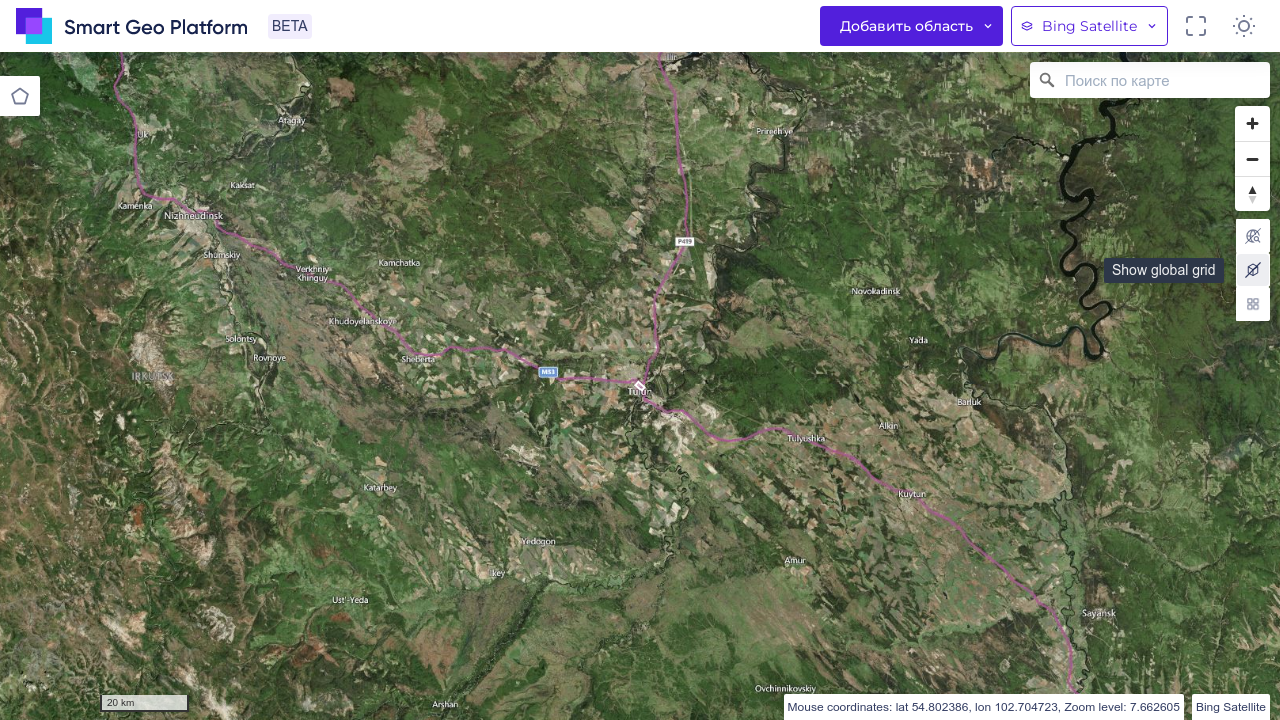
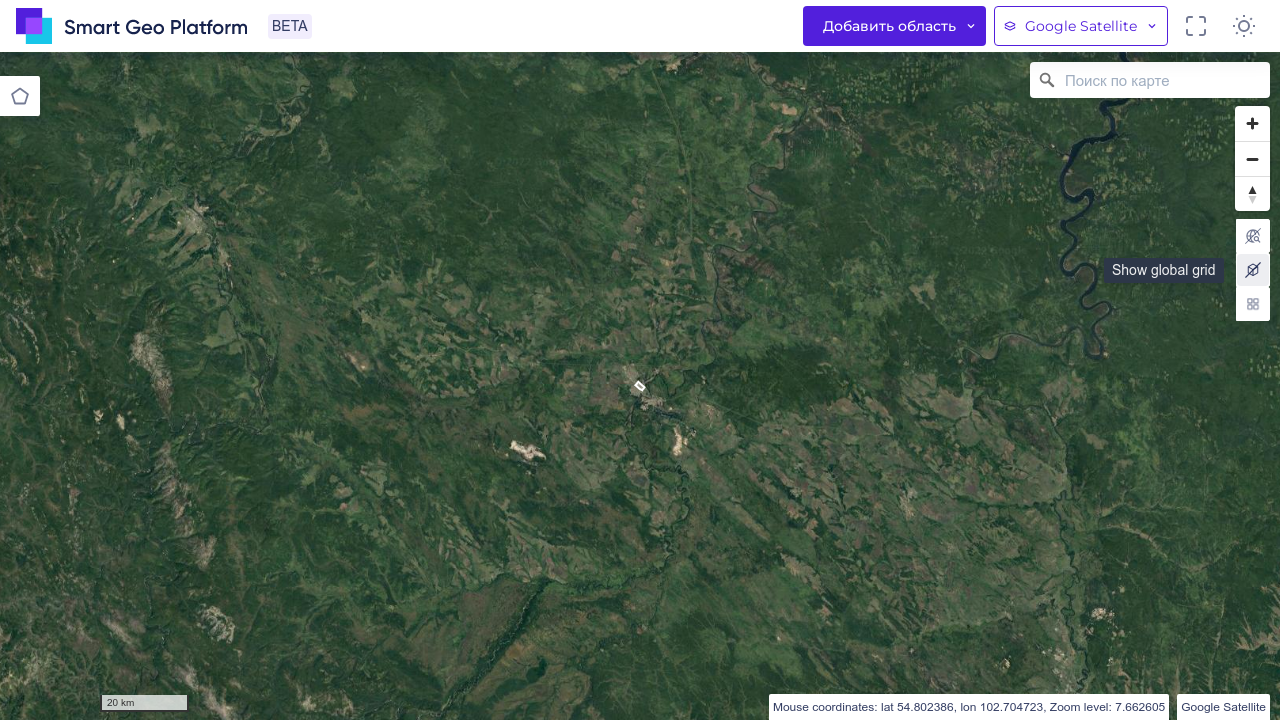
Refactoring UI tests with new default settings

diff --git a/src/test/java/frontendTests/MainPageHeaderTest.java b/src/test/java/frontendTests/MainPageHeaderTest.java
@@ -9,11 +9,11 @@ import pages.SgpMain;
 import util.JunitExtension;
 import util.Util;
 
-import java.io.IOException;
 import java.util.Arrays;
 import java.util.List;
 
 import static com.microsoft.playwright.assertions.PlaywrightAssertions.assertThat;
+import static org.junit.jupiter.api.Assertions.assertAll;
 import static org.junit.jupiter.api.Assertions.assertEquals;
 import static util.Constants.*;
 import static util.JunitExtension.BROWSER;
@@ -37,13 +37,19 @@ public class MainPageHeaderTest {
     }
 
     @Test
-    void checkMainPageViewAndUrl() throws IOException {
-        assertEquals(SGP_URL_DEV, mainPage.getPage().url(), "Неверный URL");
-        Util.checkScreenshot(
-                "actMainPageView",
-                "expMainPageView",
-                "checkMainPageView",
-                EXPSCREENSHOTS_TEST_CLASS_DIR);
+    void checkLogoClick() {
+        mainPage.getPage().navigate(NEW_CALCULATION_URL);
+        mainPage.header.waitForHeader();
+        assertThat(mainPage.header.getNewShape()).isHidden();
+        mainPage.header.getTextLogo().click();
+        mainPage.header.waitForHeader();
+
+        assertAll(
+                () -> assertEquals(SGP_URL_DEV, mainPage.getPage().url(), "Неверный URL"),
+                () -> assertThat(mainPage.header.getNewShape()).isEnabled(),
+                () -> assertThat(mainPage.shapesPanel.getShapesPanelVisible()).isVisible(),
+                () -> assertEquals(BASE_MAP_TYPE, mainPage.header.getChooseMapType().textContent(), "Тип карты отличается от дефолтного")
+        );
     }
 
 /*  FIREFOX: When running a test with authorization through an account
@@ -67,7 +73,7 @@ public class MainPageHeaderTest {
    */
 
     @Test
-    void checkFullscreenMode() throws IOException {
+    void checkFullscreenMode() {
         if (BROWSER.equals("FIREFOX")) {
             mainPage.getPage().setViewportSize(1500, 800);
         }
@@ -89,7 +95,7 @@ public class MainPageHeaderTest {
     }
 
     @Test
-    void checkColorMode() throws IOException {
+    void checkColorMode() {
         assertThat(mainPage.header.getColorModeBtn()).isEnabled();
         mainPage.header.getColorModeBtn().click();
         Util.checkScreenshot(
@@ -123,17 +129,6 @@ public class MainPageHeaderTest {
     }
 
     @Test
-    void checkLogoClick() {
-        mainPage.getPage().navigate(NEW_CALCULATION_URL);
-        mainPage.header.waitForHeader();
-        assertThat(mainPage.header.getNewShape()).isHidden();
-        mainPage.header.getTextLogo().click();
-        assertEquals(SGP_URL_DEV, mainPage.getPage().url(), "Неверный URL");
-        mainPage.header.waitForHeader();
-        assertThat(mainPage.header.getNewShape()).isEnabled();
-    }
-
-    @Test
     void checkChooseMapTypeItemsOrder() {
         mainPage.header.checkChooseMapTypeMenu();
         mainPage.header.checkDropdownItemsOrder(MAP_TYPES_LIST, mainPage.header.getMapTypeDropdownMenuItem());
@@ -146,7 +141,7 @@ public class MainPageHeaderTest {
             "Mapbox Light,actMapboxLight,expMapboxLight,checkMapboxLightOn,longWaiting",
             "Google Satellite,actGoogleSatellite,expGoogleSatellite,checkGoogleSatelliteOn,No",
             "Mapbox Satellite,actMapboxSatellite,expMapboxSatellite,checkMapboxSatelliteOn,longWaiting"})
-    public void checkChooseMapTypeItemClick(String mapTypeItem) throws IOException {
+    public void checkChooseMapTypeItemClick(String mapTypeItem) {
         List<String> mapTypeParams = Arrays.asList(mapTypeItem.split(","));
         mainPage.header.checkChooseMapTypeMenu();
         if (mapTypeParams.get(0).equals(BASE_MAP_TYPE)) {

diff --git a/src/main/java/util/Util.java b/src/main/java/util/Util.java
@@ -43,7 +43,7 @@ public class Util {
         return (System.currentTimeMillis() - start) / TimeUnit.SECONDS.toMillis(durationInSeconds) > timeoutInSeconds;
     }
 
-    private static void imageComparison(Path imgNow, Path imgExpect, String testName) throws IOException {
+    private static void imageComparison(Path imgNow, Path imgExpect, String testName) {
         BufferedImage expected = ImageComparisonUtil.readImageFromResources(String.valueOf(imgExpect));
         BufferedImage actual = ImageComparisonUtil.readImageFromResources(String.valueOf(imgNow));
 
@@ -51,7 +51,12 @@ public class Util {
         ImageComparison comparison = new ImageComparison(expected, actual, diffFile);
         ImageComparisonResult result = comparison.compareImages();
 
-        Files.delete(imgNow);
+        try {
+            Files.delete(imgNow);
+        } catch (IOException exception) {
+            System.out.println("Не удалось удалить файла  " + imgNow);
+        }
+
         float diffPercentage = result.getDifferencePercent();
         if (diffPercentage > 0.01) {
             BufferedImage resultImage = result.getResult();
@@ -61,7 +66,7 @@ public class Util {
         }
     }
 
-    public static void checkScreenshot(String actual, String expected, String testName, String expDir) throws IOException {
+    public static void checkScreenshot(String actual, String expected, String testName, String expDir) {
         page.waitForTimeout(3000);
         Path screenshot = doScreenshotFor(actual);
         Path expectedScreenshot = Paths.get(EXPECTED_SCREENSHOTS_DIR + BROWSER + "/" + expDir + expected + ".png");
@@ -80,7 +85,7 @@ public class Util {
                    getImg,
                     () -> {});
         */
-    public static void checkScreenshotLongWaiting(String actual, String expected, String testName, String expDir) throws IOException {
+    public static void checkScreenshotLongWaiting(String actual, String expected, String testName, String expDir) {
         page.waitForTimeout(5000);
         Path screenshot = doScreenshotFor(actual);
         Path expectedScreenshot = Paths.get(EXPECTED_SCREENSHOTS_DIR + BROWSER + "/" + expDir + expected + ".png");

diff --git a/src/main/java/elements/ShapesPanel.java b/src/main/java/elements/ShapesPanel.java
@@ -7,14 +7,16 @@ import util.JunitExtension;
 public class ShapesPanel {
     //<editor-fold desc="Selectors">
     private static final String SELECTOR_ADDED_SHAPES = "[data-cy=shape]";
-    private static final String SELECTOR_SHAPES_PANEL = "[data-cy=aside]";
+    private static final String SELECTOR_SHAPES_PANEL_VISIBLE = "[data-cy=aside-visible]";
+    private static final String SELECTOR_SHAPES_PANEL_INVISIBLE = "[data-cy=aside-invisible]";
     private static final String SELECTOR_SHAPE_SEARCH = "[data-cy=search]";
 
     //</editor-fold>
 
     //<editor-fold desc="Elements">
     private final Locator addedShapes;
-    private final Locator shapesPanel;
+    private final Locator shapesPanelVisible;
+    private final Locator shapesPanelInvisible;
     private final Locator shapeSearch;
     //</editor-fold>
 
@@ -23,8 +25,12 @@ public class ShapesPanel {
         return addedShapes;
     }
 
-    public Locator getShapesPanel() {
-        return shapesPanel;
+    public Locator getShapesPanelVisible() {
+        return shapesPanelVisible;
+    }
+
+    public Locator getShapesPanelInvisible() {
+        return shapesPanelInvisible;
     }
 
     public Locator getShapeSearch() {
@@ -36,8 +42,9 @@ public class ShapesPanel {
     private final Page page = JunitExtension.page;
 
     public ShapesPanel() {
-        shapesPanel = page.locator(SELECTOR_SHAPES_PANEL);
-        addedShapes = shapesPanel.locator(SELECTOR_ADDED_SHAPES);
-        shapeSearch = shapesPanel.locator(SELECTOR_SHAPE_SEARCH);
+        shapesPanelVisible = page.locator(SELECTOR_SHAPES_PANEL_VISIBLE);
+        shapesPanelInvisible = page.locator(SELECTOR_SHAPES_PANEL_INVISIBLE);
+        addedShapes = shapesPanelVisible.locator(SELECTOR_ADDED_SHAPES);
+        shapeSearch = shapesPanelVisible.locator(SELECTOR_SHAPE_SEARCH);
     }
 }

diff --git a/src/test/java/backendTests/shape/LargeShapeTest.java b/src/test/java/backendTests/shape/LargeShapeTest.java
@@ -63,8 +63,8 @@ public class LargeShapeTest {
         ValidatableResponse responseRenameShape = CalcManagement.shapeRename(renameShape, shapeId);
         responseRenameShape.statusCode(200);
 
-        ValidatableResponse responseGetNewShapeData = getShapeDataById(shapeId);
-        currentShapeName = getStringFromJson(responseGetNewShapeData, "name");
+        ValidatableResponse responseGetNewShapesData = getShapeDataById(shapeId);
+        currentShapeName = getStringFromJson(responseGetNewShapesData, "name");
         assertEquals(currentShapeName,
                 renameShape.getValue(), "Изменение наименования области не выполнено");
     }
@@ -74,9 +74,9 @@ public class LargeShapeTest {
         ValidatableResponse responseDeleteShape = deleteShapeDataById(shapeId);
         responseDeleteShape.statusCode(200);
 
-        ValidatableResponse responseGetNewShapeData = getShapeDataById(shapeId);
+        ValidatableResponse responseGetNewShapesData = getShapeDataById(shapeId);
         assertEquals(DELETED.getStatusName(),
-                getStringFromJson(responseGetNewShapeData, "status"), "Область не была удалена");
+                getStringFromJson(responseGetNewShapesData, "status"), "Область не была удалена");
     }
 
     @Test
@@ -108,7 +108,6 @@ public class LargeShapeTest {
             System.out.println("Прервано ожидание обновления статуса области в базе данных");
         }
 
-        ValidatableResponse responseDeleteShape = deleteJobExecutionsByIds(jobExecutionIds);
+        ValidatableResponse responseDeleteJobExecutions = deleteJobExecutionsByIds(jobExecutionIds);
     }
 }
-

diff --git a/src/test/java/backendTests/shape/SmallShapeTest.java b/src/test/java/backendTests/shape/SmallShapeTest.java
@@ -56,8 +56,8 @@ public class SmallShapeTest {
         ValidatableResponse responseRenameShape = CalcManagement.shapeRename(renameShape, shapeId);
         responseRenameShape.statusCode(200);
 
-        ValidatableResponse responseGetNewShapeData = getShapeDataById(shapeId);
-        currentShapeName = getStringFromJson(responseGetNewShapeData, "name");
+        ValidatableResponse responseGetNewShapesData = getShapeDataById(shapeId);
+        currentShapeName = getStringFromJson(responseGetNewShapesData, "name");
         assertEquals(currentShapeName,
                 renameShape.getValue(), "Изменение наименования области не выполнено");
     }
@@ -67,9 +67,9 @@ public class SmallShapeTest {
         ValidatableResponse responseDeleteShape = deleteShapeDataById(shapeId);
         responseDeleteShape.statusCode(200);
 
-        ValidatableResponse responseGetNewShapeData = getShapeDataById(shapeId);
+        ValidatableResponse responseGetNewShapesData = getShapeDataById(shapeId);
         assertEquals(DELETED.getStatusName(),
-                getStringFromJson(responseGetNewShapeData, "status"), "Область не была удалена");
+                getStringFromJson(responseGetNewShapesData, "status"), "Область не была удалена");
     }
 
 

diff --git a/src/test/java/frontendTests/MapControlTest.java b/src/test/java/frontendTests/MapControlTest.java
@@ -7,8 +7,6 @@ import pages.ShapeShowPage;
 import util.JunitExtension;
 import util.Util;
 
-import java.io.IOException;
-
 import static com.microsoft.playwright.assertions.PlaywrightAssertions.assertThat;
 import static org.junit.jupiter.api.Assertions.assertEquals;
 import static org.junit.jupiter.api.Assertions.assertNotEquals;
@@ -30,7 +28,7 @@ public class MapControlTest {
     }
 
     @Test
-    void checkZoom() throws IOException {
+    void checkZoom() {
         shapeShowPage.mapControl.clickZoomIn(1);
         Util.checkScreenshot(
                 "actMainPageZoomIn",
@@ -66,7 +64,7 @@ public class MapControlTest {
     }
 
     @Test
-    void checkGlobalGrid() throws IOException {
+    void checkGlobalGrid() {
         shapeShowPage.mapControl.clickZoomOut(6);
         shapeShowPage.mapControl.getGlobalGridBtn().click();
         Util.checkScreenshot(
@@ -84,7 +82,7 @@ public class MapControlTest {
 
 
     @Test
-    void checkGeoSearch() throws IOException {
+    void checkGeoSearch() {
         shapeShowPage.mapControl.getGeoSearch().click();
         shapeShowPage.mapControl.getGeoSearch().type("Moscow");
         assertThat(shapeShowPage.mapControl.getGeoSearchList()).isVisible();

diff --git a/src/test/java/frontendTests/BuildingDamageCalcTest.java b/src/test/java/frontendTests/BuildingDamageCalcTest.java
@@ -34,7 +34,7 @@ public class BuildingDamageCalcTest {
     @Test
     void checkChooseAndOpenCalcPolygonByName() {
         mainPage.mapControl.getPolygonsSectionBtn().click();
-        assertThat(mainPage.shapesPanel.getShapesPanel()).isVisible();
+        assertThat(mainPage.shapesPanel.getShapesPanelVisible()).isVisible();
         mainPage.openShapeWithName(TEST_SHAPE_NAME);
         assertThat(shapeData.getOpenDetailsBtn()).isVisible();
         shapeData.getOpenDetailsBtn().click();

diff --git a/src/main/java/util/JunitExtension.java b/src/main/java/util/JunitExtension.java
@@ -56,7 +56,7 @@ public class JunitExtension implements BeforeAllCallback, AfterEachCallback, Aft
         }
 
         browserContext = browser.newContext(
-                new Browser.NewContextOptions().setStorageStatePath(STORAGE_PATH)); // View size 1280X720
+                new Browser.NewContextOptions().setStorageStatePath(STORAGE_PATH).setIgnoreHTTPSErrors(true)); // View size 1280X720
         page = browserContext.newPage();
 
         try {

diff --git a/src/main/java/pages/BasePage.java b/src/main/java/pages/BasePage.java
@@ -43,6 +43,11 @@ public class BasePage {
             mapControl.getCompassBtn().click();
             page.waitForTimeout(1000);
         }
+
+        // checking that the list of shapes is closed
+        if (shapesPanel.getShapesPanelVisible().isVisible()) {
+            mapControl.getPolygonsSectionBtn().click();
+        }
     }
 
     public void waitStandartMapZoom(String standartMapZoom) {

diff --git a/src/main/java/util/Constants.java b/src/main/java/util/Constants.java
@@ -27,7 +27,7 @@ public class Constants {
     //</editor-fold>
 
     //<editor-fold desc="Basic UI Settings">
-    public static final String BASE_MAP_TYPE = "Bing Satellite";
+    public static final String BASE_MAP_TYPE = "Google Satellite";
 
     public static final int STANDART_PAGE_HEIGHT = 1280;
 
